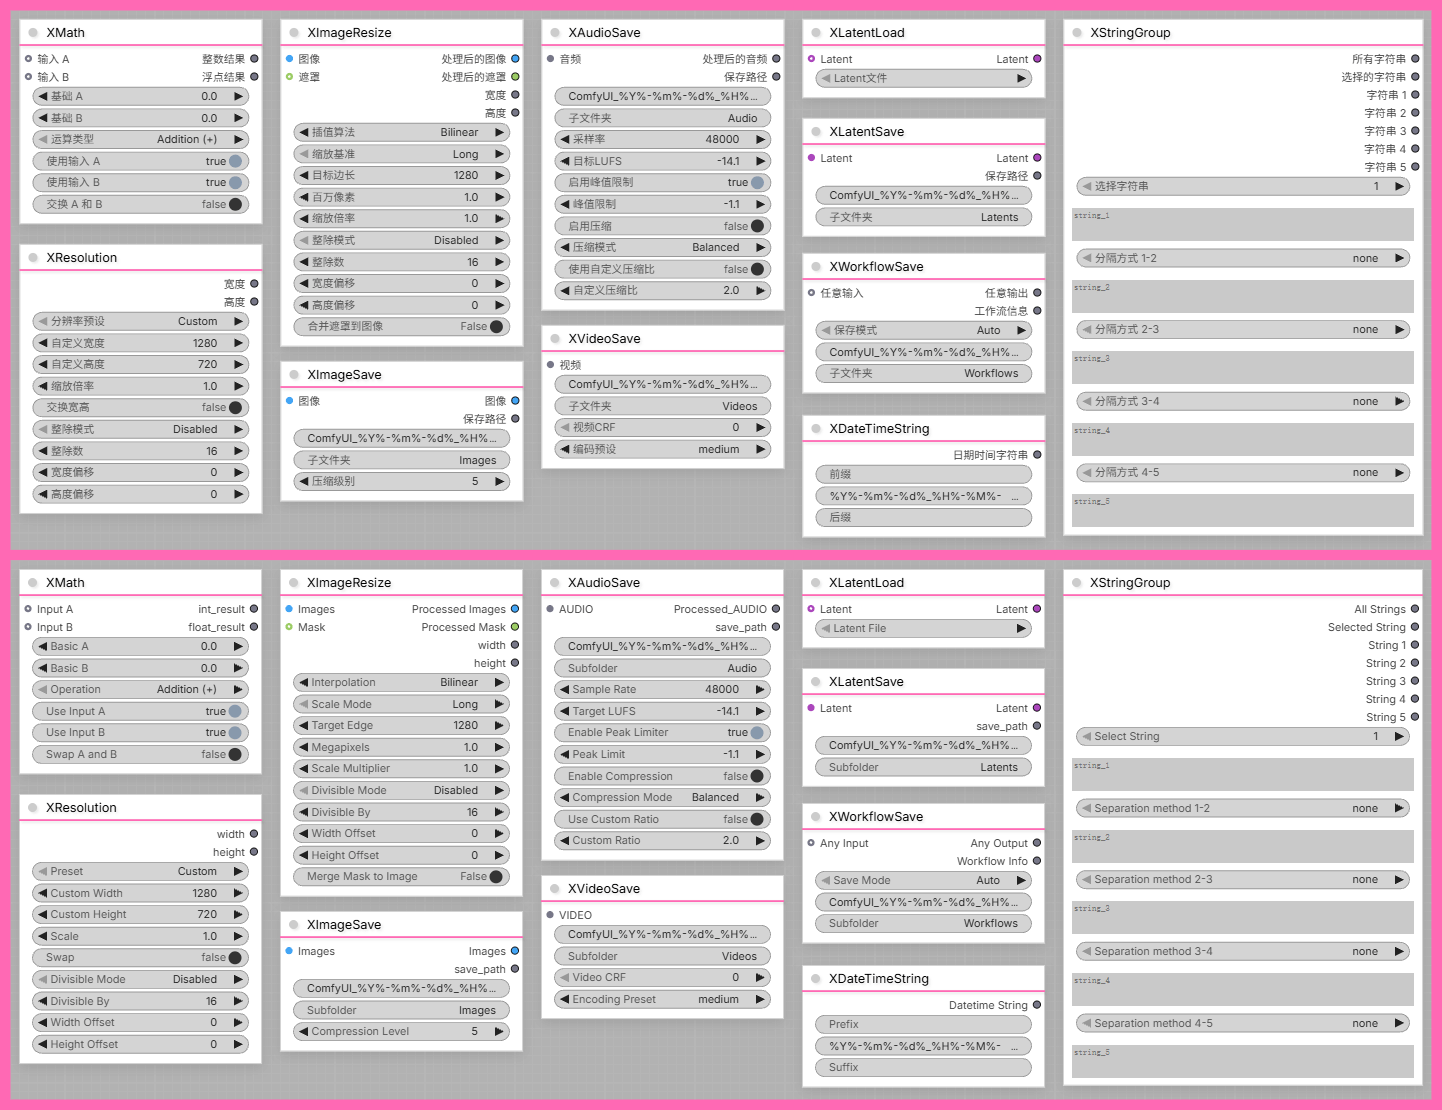
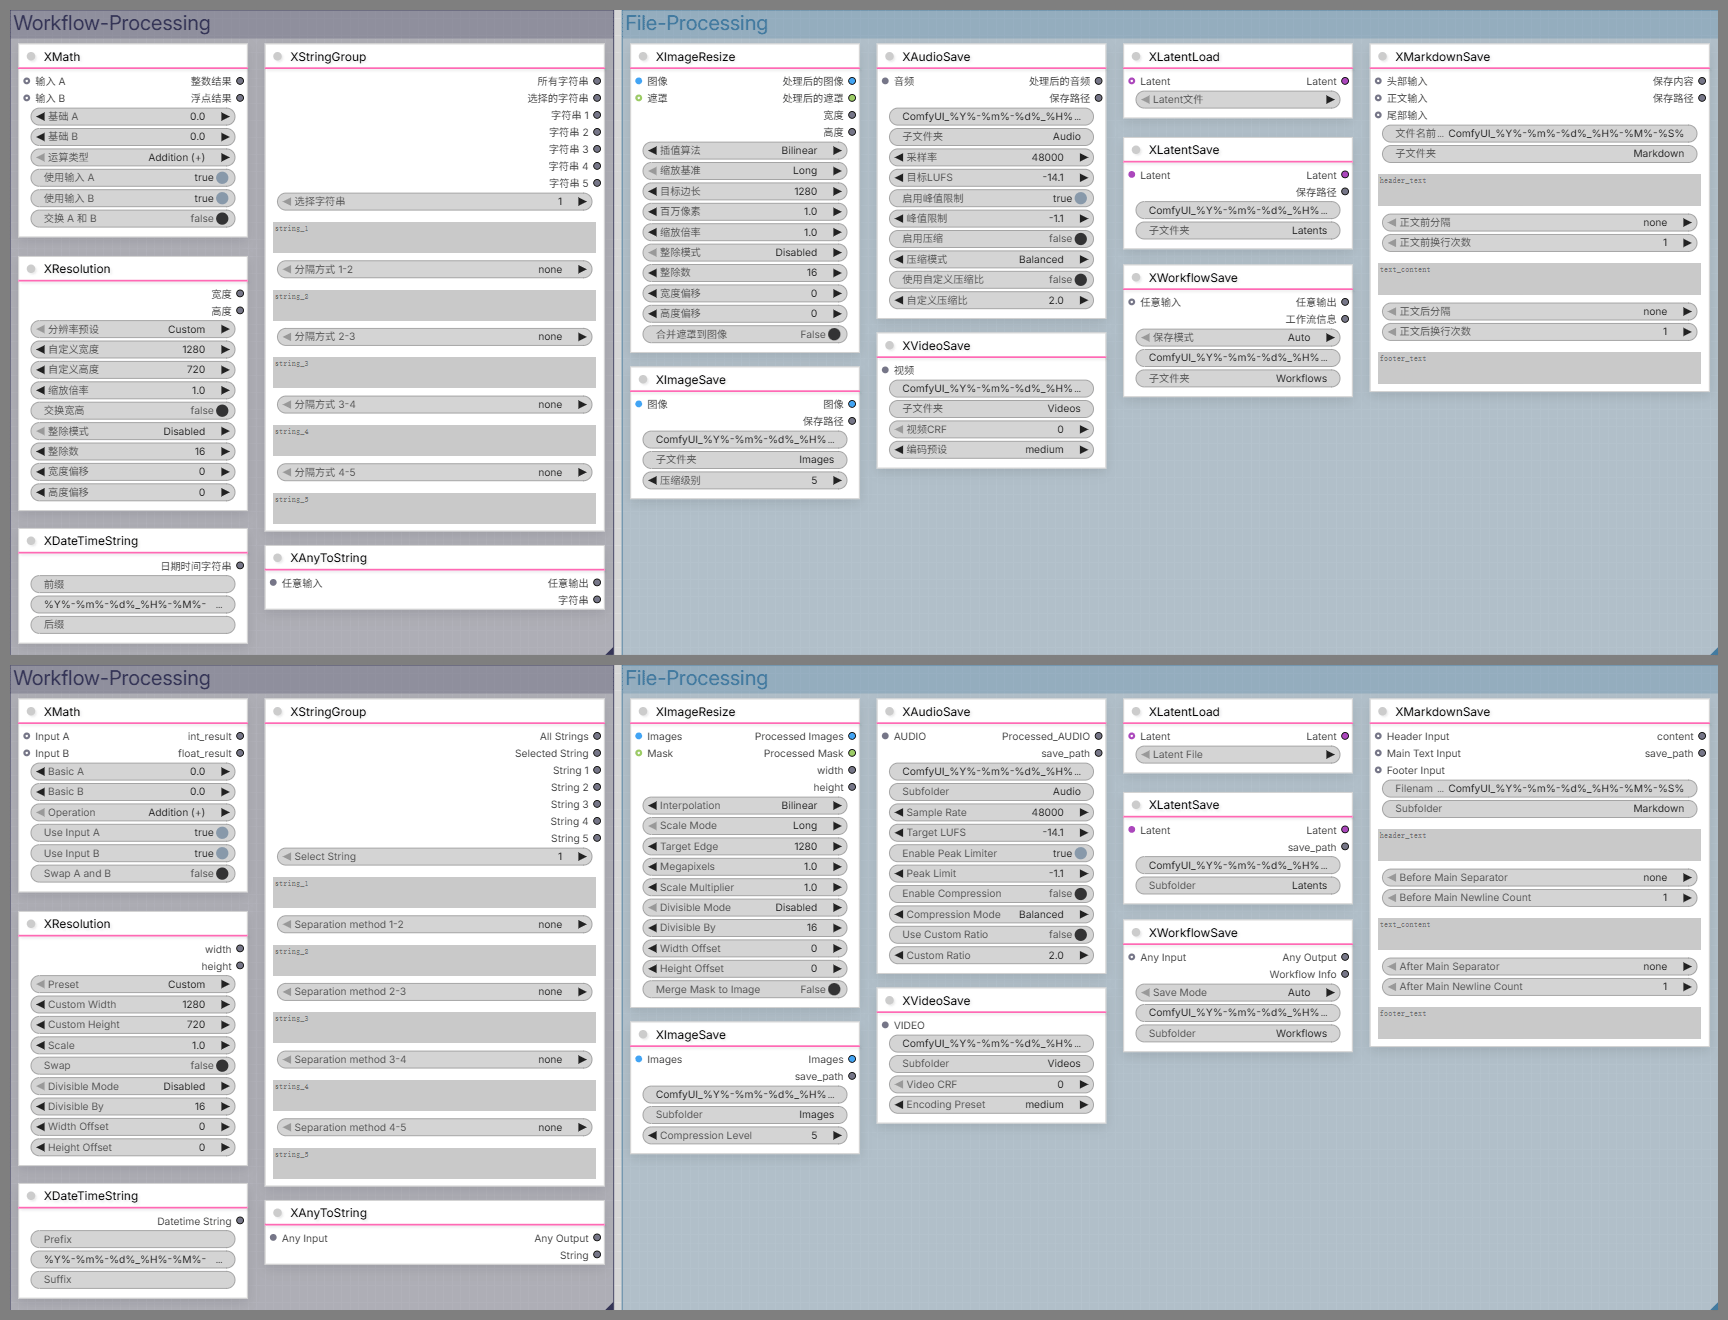
更新

diff --git a/README.md b/README.md
@@ -27,7 +27,7 @@ ComfyUI-Xz3r0-Nodes 是一个 ComfyUI 自定义节点项目，当前主要目标
 
 ### ✨ 当前项目节点和工具数量
 
-🎁 自定义节点 （数量总计：`11`）
+🎁 自定义节点 （数量总计：`13`）
 
 🧩 网页扩展与工具 （数量总计：`4`）
 
@@ -181,6 +181,51 @@ preset="1024×1024 (1:1)", width_offset=-1, height_offset=-1
 preset="1920×1080 (16:9)", divisible=16, divisible_mode="Up", width_offset=1, height_offset=1
 输出：width=1921, height=1089 (1920x1088 + 偏移)
 ```
+</details>
+
+### XAnyToString - 🔤 任意数据转字符串
+<details>
+
+`♾ Xz3r0/Workflow-Processing`
+
+任意数据转字符串节点，用来把上游传来的各种数据转换成字符串，
+同时保留原始数据继续往下传。
+
+**这个节点是做什么的**:
+- 有些节点只接受字符串，但上游给你的可能是数字、布尔值，
+  或者其他类型的数据
+- 这个节点会帮你把那些数据直接转成字符串，方便接到保存文本、
+  拼接文本、写入 Markdown 等节点上
+- 同时它还会把原始数据原样透传出去，这样你不需要为了转换字符串
+  而中断原本的数据流
+
+**功能**:
+- 接收任意类型输入
+- 使用 Python 的 `str()` 规则转换为字符串
+- 同时输出原始输入数据
+- 适合在工作流里做“数据转文本”的中转
+
+**输入**:
+- `anything` (ANY): 任意输入数据
+
+**输出**:
+- `anything` (ANY): 原始输入数据，原样透传
+- `string` (STRING): 转换后的字符串结果
+
+**使用示例**:
+```
+输入:
+anything = 123
+
+输出:
+anything = 123
+string = "123"
+```
+
+**适合什么时候用**:
+- 把数字转成字符串后拿去保存到文本文件
+- 把上游节点结果转成字符串后接到 `XStringGroup`
+- 把任意数据转成字符串后接到 `XMarkdownSave`
 </details>
 
 ### XStringGroup - 🔗 字符串组合
@@ -577,6 +622,89 @@ Latent保存节点，支持自定义文件名和元数据保存
 - 维度验证：samples 必须是 4D [B,C,H,W] 或 5D [B,C,T,H,W]
 - 兼容：图像、音频、3D、视频、Inpaint、批量处理等所有 ComfyUI 标准4D或5D的 Latent 类型
 - 注意：节点不验证 Latent 可能带有的额外可选键（如 noise_mask、batch_index、type），这些由上游生成 Latent 的节点负责
+</details>
+
+### XMarkdownSave - 📝 Markdown 保存
+<details>
+
+`♾ Xz3r0/File-Processing`
+
+Markdown 保存节点，用来把头部、正文、尾部文本组合成一个
+`.md` 文件保存到 ComfyUI 输出目录中。
+
+**这个节点是做什么的**:
+- 适合把提示词、说明文字、工作流结果、元数据摘要之类的内容
+  保存成 Markdown 文档
+- 你既可以直接在节点里手动输入文字，也可以从上游节点接收字符串
+- 头部、正文、尾部之间可以控制是否自动插入换行，避免自己手动数空行
+
+**功能**:
+- 保存 Markdown 文件到 ComfyUI 默认输出目录
+- 头部、正文、尾部都支持“输入端口优先，文本框回退”
+- 支持正文前后插入换行分隔
+- 支持自定义文件名和子文件夹
+- 支持日期时间标识符 `%Y% %m% %d% %H% %M% %S%`
+- 自动检测同名文件并追加序列号，避免覆盖旧文件
+- 路径安全防护，避免非法路径写入
+- 输出最终保存内容和相对保存路径
+
+**输入**:
+- `filename_prefix` (STRING): 文件名前缀
+- `subfolder` (STRING): 子文件夹名称，默认 `Markdown`
+- `header_input` (STRING, 可选): 头部字符串输入端口，连接时优先
+  使用它
+- `header_text` (STRING, 多行): 头部文本框内容，未连接
+  `header_input` 时使用
+- `before_main_separator` (下拉选择): 头部和正文之间的分隔方式
+  - `none`: 不插入分隔内容
+  - `newline`: 插入换行
+- `before_main_newline_count` (INT): 正文前的换行次数
+- `main_text_input` (STRING, 可选): 正文字符串输入端口，连接时优先
+  使用它
+- `text_content` (STRING, 多行): 正文文本框内容，未连接
+  `main_text_input` 时使用
+- `after_main_separator` (下拉选择): 正文和尾部之间的分隔方式
+  - `none`: 不插入分隔内容
+  - `newline`: 插入换行
+- `after_main_newline_count` (INT): 正文后的换行次数
+- `footer_input` (STRING, 可选): 尾部字符串输入端口，连接时优先
+  使用它
+- `footer_text` (STRING, 多行): 尾部文本框内容，未连接
+  `footer_input` 时使用
+
+**优先级逻辑**:
+- 头部: 如果连接了 `header_input`，就使用输入端口内容；
+  否则使用 `header_text`
+- 正文: 如果连接了 `main_text_input`，就使用输入端口内容；
+  否则使用 `text_content`
+- 尾部: 如果连接了 `footer_input`，就使用输入端口内容；
+  否则使用 `footer_text`
+
+**输出**:
+- `content` (STRING): 最终写入 Markdown 文件的完整内容
+- `save_path` (STRING): 保存后的相对路径
+
+**使用示例**:
+```
+filename_prefix = "PromptNotes_%Y%-%m%-%d%"
+subfolder = "Markdown"
+header_text = "# 本次生成记录"
+before_main_separator = "newline"
+before_main_newline_count = 2
+text_content = "这里是正文内容"
+after_main_separator = "newline"
+after_main_newline_count = 2
+footer_text = "---\n保存完成"
+
+输出:
+content = "# 本次生成记录\n\n这里是正文内容\n\n---\n保存完成"
+save_path = "Markdown/PromptNotes_2026-03-11_00001.md"
+```
+
+**适合什么时候用**:
+- 保存提示词记录、参数说明、生成备注
+- 把 `XAnyToString` 转出来的字符串写成 Markdown 文件
+- 把多个字符串节点整理后输出成可阅读的文档
 </details>
 
 ### XWorkflowSave - 📄 JSON工作流元数据保存
